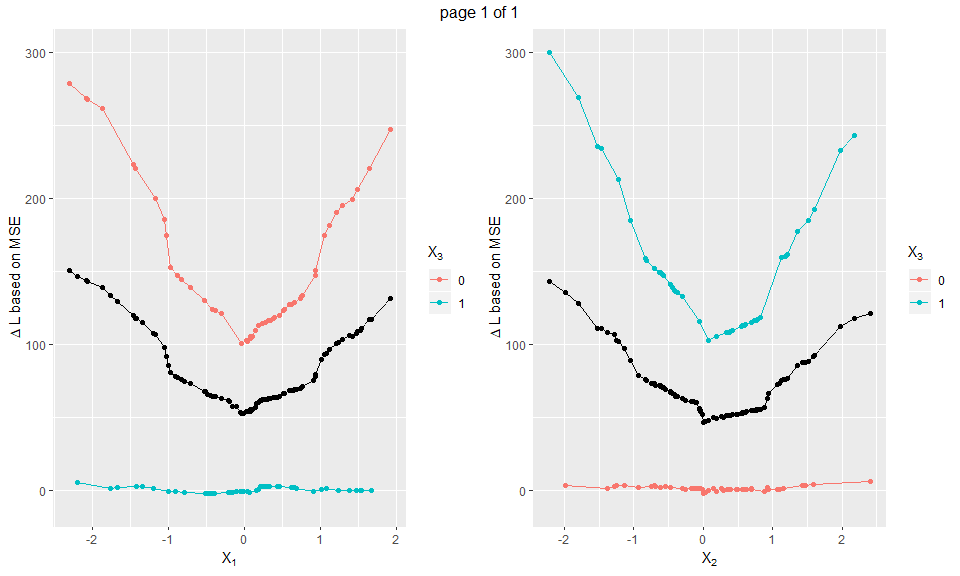
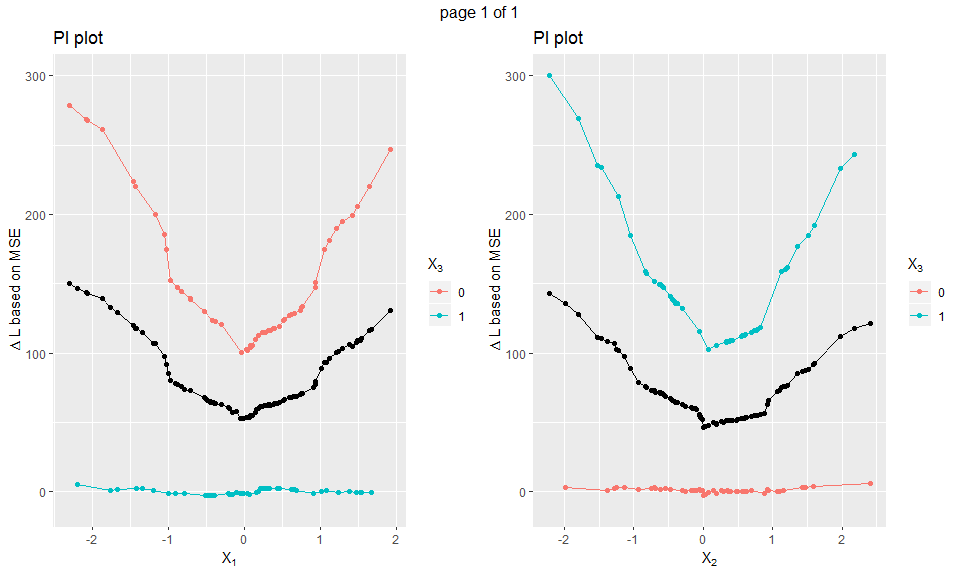
compile rmds

diff --git a/ecml-demo/application_results.md b/ecml-demo/application_results.md
@@ -28,6 +28,7 @@ library(gridExtra)
 library(ggExtra)
 library(xtable)
 library(knitr)
+library(featureImportance)
 source("helper/functions.R")
 ```
 
@@ -82,10 +83,10 @@ pi = lapply(vars, function(var) {
   ici[, V3 := as.factor(as.numeric(row.id %in% use1))]
   ind = gsub("[[:alpha:]]", "", var)
   
-  plotImportance(pfi, feat = var, mid = "mse", individual = FALSE, hline = FALSE) +
+  plotImportance(pfi, feat = var, mid = "mse", hline = FALSE) +
     geom_line(data = pi.cond, aes(color = V3)) +
     geom_point(data = pi.cond, aes(color = V3)) +
-    labs(x = bquote(X[.(ind)]), y = bquote(Delta~L ~ "based on MSE"), color = bquote(X[3])) +
+    labs(x = bquote(X[.(ind)]), color = bquote(X[3])) +
     ylim(c(-10, 300))
 })
 marrangeGrob(pi, nrow = 1, ncol = 2)
@@ -167,7 +168,7 @@ pfi = readRDS("application_importance_realdata.Rds")
 
 # get index for LSTAT <= 10 in order to keep those observations
 pi.ind = unique(pfi[features == "LSTAT" & feature.value <= 10, replace.id])
-# compute integral of each ICI curve and select observations with negative ICI integral
+# compute integral of each ICI curve and select observations with positive ICI integral
 ici = subset(pfi, features == "LSTAT")
 ici.area = ici[, lapply(.SD, mean, na.rm = TRUE), .SDcols = "mse", by = "row.id"]
 ici.ind = which(ici.area$mse > 0)
@@ -195,17 +196,13 @@ pp = lapply(features, function(feat) {
   ici.area = ici[, lapply(.SD, mean, na.rm = TRUE), .SDcols = "mse", by = "row.id"]
   ind = c(which.min(ici.area$mse), which.max(ici.area$mse))
   ici.obs = subset(ici, row.id %in% ici.area$row.id[ind])
-  ylab = bquote(Delta~L ~ "based on MSE")
   
   # PI plot
-  pi.plot = plotImportance(pfi, feat, "mse") +
-    labs(title = "PI plot", x = feat, y = ylab) + 
-    theme(legend.position = "none")
+  pi.plot = plotImportance(pfi, feat, "mse") + theme(legend.position = "none")
   
   # ICI plot
   ici.plot = plotImportance(pfi, feat, "mse", individual = TRUE, grid.points = FALSE, hline = FALSE) +
     geom_line(data = ici.obs, aes(color = factor(row.id), group = row.id)) +
-    labs(title = "ICI plot", x = feat, y = ylab) +
     theme(legend.position = "none")
   
   list(ggMarginal(pi.plot, type = "histogram", fill = "transparent", margins = "x"), ici.plot)

diff --git a/README.md b/README.md
@@ -101,24 +101,24 @@ test.ind = setdiff(1:n, train.ind)
 mod = train(lrn, pid.task, subset = train.ind)
 
 # Measure feature importance on test data
-test = getTaskData(pid.task, subset = train.ind)
+test = getTaskData(pid.task, test.ind)
 imp = featureImportance(mod, data = test)
 imp
 ```
 
     ## $importance
-    ##      n.feat.perm features       mmce
-    ##   1:           1 pregnant 0.02608696
-    ##   2:           1  glucose 0.20869565
-    ##   3:           1 pressure 0.01304348
-    ##   4:           1  triceps 0.01956522
-    ##   5:           1  insulin 0.04565217
-    ##  ---                                
-    ## 396:          50  triceps 0.02608696
-    ## 397:          50  insulin 0.02608696
-    ## 398:          50     mass 0.08260870
-    ## 399:          50 pedigree 0.07391304
-    ## 400:          50      age 0.06521739
+    ##      n.feat.perm features         mmce
+    ##   1:           1 pregnant  0.009740260
+    ##   2:           1  glucose  0.120129870
+    ##   3:           1 pressure  0.000000000
+    ##   4:           1  triceps -0.006493506
+    ##   5:           1  insulin -0.003246753
+    ##  ---                                  
+    ## 396:          50  triceps -0.006493506
+    ## 397:          50  insulin -0.003246753
+    ## 398:          50     mass  0.025974026
+    ## 399:          50 pedigree  0.009740260
+    ## 400:          50      age  0.022727273
     ## 
     ## $resample
     ## NULL
